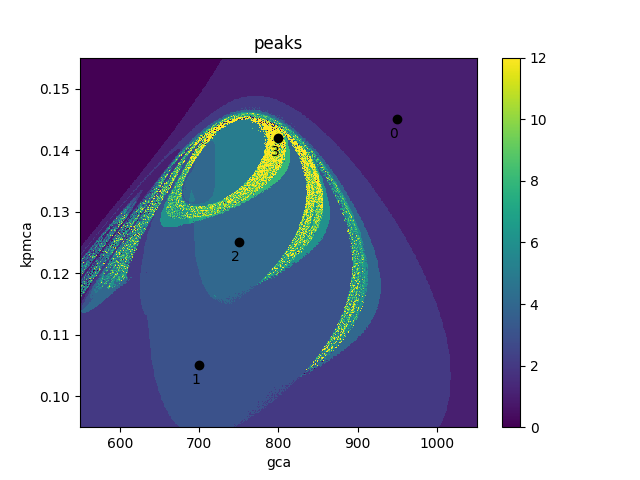
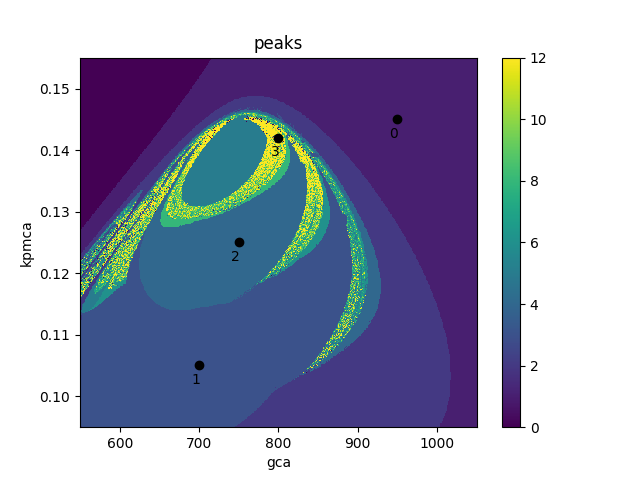
smaller grid for spike_counting.md

diff --git a/examples/spike_counting.py b/examples/spike_counting.py
@@ -48,16 +48,14 @@ variables = {"v": -50.0, "n": 0.01, "c": 0.12}
 parameters = {"gca": 1200.0, "gkca": 750.0, "kpmca": 0.1}
 
 # set up the solver
-t_span=(0.0, 30000.0)
 integrator = clode.FeatureSimulator(
     rhs_equation=get_rhs,
     variables=variables,
     parameters=parameters,
     single_precision=True,
-    t_span=t_span,
     stepper=clode.Stepper.dormand_prince,
     dt=0.001,
-    dtmax=1.0,
+    dtmax = 0.1,
     abstol=1e-6,
     reltol=1e-5,
     event_var="v",
@@ -71,8 +69,8 @@ integrator = clode.FeatureSimulator(
 )
 
 # set up the ensemble of systems
-nx = 256
-ny = 256
+nx = 512
+ny = 512
 nPts = nx * ny
 gca = np.linspace(550.0, 1050.0, nx)
 kpmca = np.linspace(0.095, 0.155, ny)
@@ -83,7 +81,9 @@ ensemble_parameters_names = list(ensemble_parameters.keys())
 
 integrator.set_ensemble(parameters=ensemble_parameters)
 
+integrator.set_tspan((0.0, 50000.0))
 integrator.transient()
+integrator.set_tspan((0.0, 10000.0))
 integrator.features()
 
 features = integrator.get_observer_results()
@@ -109,27 +109,26 @@ plt.show()
 
 # Now get the trajectories
 steps_taken = features.get_var_count("step")
-max_steps = int(np.max(steps_taken))
+max_store = int(np.max(steps_taken))
 
 integrator_traj = clode.TrajectorySimulator(
     rhs_equation=get_rhs,
     variables = variables,
     parameters = parameters,
     single_precision = True,
-    t_span=t_span,
     stepper = clode.Stepper.dormand_prince,
     dt = 0.001,
-    dtmax = 1.0,
+    dtmax = 0.1,
     abstol = 1e-6,
     reltol = 1e-5,
-    max_steps = max_steps,
-    max_store = max_steps,
+    max_store = max_store,
 )
 
 traj_parameters = {"gca":points[:, 0], "kpmca": points[:, 1]}
 
 integrator_traj.set_ensemble(parameters = traj_parameters)
 
+integrator_traj.set_tspan((0.0, 50000.0))
 integrator_traj.transient()
 integrator_traj.set_tspan((0.0, 10000.0))
 integrator_traj.trajectory()

diff --git a/docs/spike_counting.md b/docs/spike_counting.md
@@ -80,8 +80,8 @@ integrator = clode.FeatureSimulator(
 )
 
 # set up the ensemble of systems
-nx = 256
-ny = 256
+nx = 64
+ny = 64
 nPts = nx * ny
 gca = np.linspace(550.0, 1050.0, nx)
 kpmca = np.linspace(0.095, 0.155, ny)
